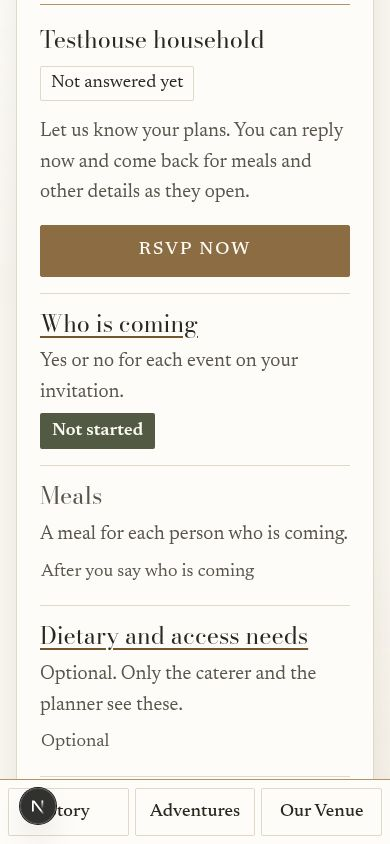
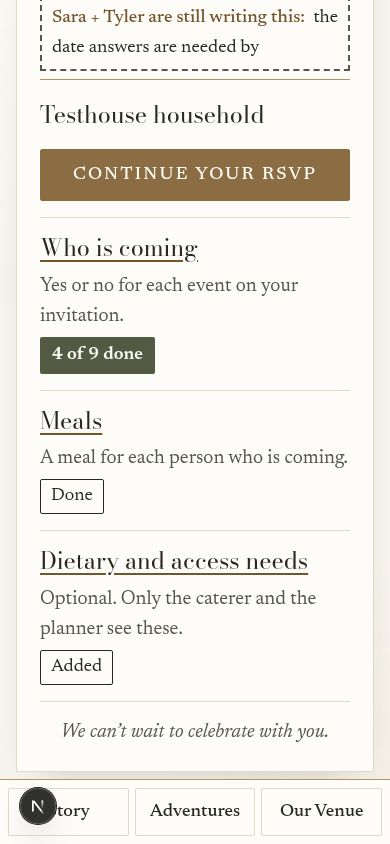
Make pending reply priority real and preserve browser device settings

diff --git a/tests/e2e/helpers/principal.ts b/tests/e2e/helpers/principal.ts
@@ -107,7 +107,15 @@ export async function contextAs(
 ): Promise<BrowserContext> {
   // `browser.newContext()` does not inherit the config's `use.baseURL`, so pass it: specs navigate
   // with relative paths and must land on the server Playwright actually started.
+  // A manually created context does not inherit the project's emulated device.
+  // Preserve it so a test named "mobile" actually exercises the mobile layout and inputs.
+  const device = test.info().project.use;
   return browser.newContext({
+    viewport: device.viewport,
+    userAgent: device.userAgent,
+    deviceScaleFactor: device.deviceScaleFactor,
+    isMobile: device.isMobile,
+    hasTouch: device.hasTouch,
     baseURL: BASE_URL,
     extraHTTPHeaders: principalHeaders(name, TEST_AUTH_SECRET, `browser-${process.pid}-${++contexts}`),
     ...(opts.viewport ? { viewport: opts.viewport } : {}),

diff --git a/tests/e2e/rsvp.spec.ts b/tests/e2e/rsvp.spec.ts
@@ -108,6 +108,13 @@ test('a household manager answers for the whole household, reviews inline, confi
   await page.goto('/your-weekend');
   await expect(page.getByRole('heading', { level: 1 })).toContainText('Ada');
   await expect(page.locator('#main')).toContainText('Continue your RSVP');
+  if (test.info().project.name === 'mobile') {
+    // A partial reply keeps the next action before the event list, in reading and visual order.
+    expect(await page.evaluate(() => !!(document.querySelector('#reply')!.compareDocumentPosition(document.querySelector('#itinerary')!) & Node.DOCUMENT_POSITION_FOLLOWING))).toBe(true);
+    const reply = (await page.locator('#reply').boundingBox())!;
+    const itinerary = (await page.locator('#itinerary').boundingBox())!;
+    expect(reply.y).toBeLessThan(itinerary.y);
+  }
   await axeClean(page);
   await ctx.close();
 });

diff --git a/src/themes/botanical-deco/weekend.tsx b/src/themes/botanical-deco/weekend.tsx
@@ -341,8 +341,9 @@ export function BotanicalWeekendPage({ data, reply }: { data: MyItinerary; reply
       <div className="bd-workspace">
         <Botanical id="botanical.edge-left" className="bd-bloom--ws-left" />
         <Botanical id="botanical.vine-right" className="bd-bloom--ws-right" />
+        {pending ? <Reply data={data} reply={reply} /> : null}
         <Itinerary data={data} />
-        <Reply data={data} reply={reply} />
+        {!pending ? <Reply data={data} reply={reply} /> : null}
         <Modules data={data} />
         <span className="bd-workspace__skyline" aria-hidden="true" />
       </div>

diff --git a/src/themes/botanical-deco/guest.css b/src/themes/botanical-deco/guest.css
@@ -752,6 +752,18 @@
     grid-template-columns: minmax(0, 1fr) minmax(0, 1fr);
   }
 
+  /* The next reply leads the single-column reading order; the desktop workspace keeps
+     the itinerary at left and reply at centre regardless of that semantic order. */
+  .bd-itin {
+    grid-column: 1;
+    grid-row: 1;
+  }
+
+  .bd-reply {
+    grid-column: 2;
+    grid-row: 1;
+  }
+
   .bd-modules {
     grid-column: 1 / -1;
   }

diff --git a/docs/demos/release-review-2026-10-29/README.md b/docs/demos/release-review-2026-10-29/README.md
@@ -2,7 +2,7 @@
 
 Fresh local browser captures at 390 × 844, using the final working tree described by this commit. Measurements in [observations.json](observations.json) record section order, first-screen dress-code/directions bounds, reply action position and overflow. Screenshots show the actual page, including local development chrome; no compositing or generated mockups.
 
-The baseline is the earlier PR capture at `b68ff15`: [wedding](../sara-feedback/after/wedding.jpg) and [weekend phone](../guest-journey-refinement/after/weekend-mobile.jpg). The wedding baseline is a desktop section capture; compare content order rather than pixel dimensions. The new phone images verify first-screen essentials in all three themes. The weekend fixture is unanswered/open with demo guests and does not imply actual wedding menu or RSVP availability.
+The baseline is the earlier PR capture at `b68ff15`: [wedding](../sara-feedback/after/wedding.jpg) and [weekend phone](../guest-journey-refinement/after/weekend-mobile.jpg). The wedding baseline is a desktop section capture; compare content order rather than pixel dimensions. The new phone images verify first-screen essentials in all three themes. The refreshed weekend fixture has a partial/open RSVP with demo guests and does not imply actual wedding menu or RSVP availability.
 
 | Wedding theme | Phone screenshot |
 |---|---|
@@ -13,3 +13,7 @@ The baseline is the earlier PR capture at `b68ff15`: [wedding](../sara-feedback/
 ![RSVP next action before the status list](weekend-reply-390.jpg)
 
 [Existing real guest-journey Webreel recordings](../guest-journey-refinement/README.md) show actual email-code sign-in, map/planning, persisted agenda changes, meal review/confirm, and sign-out gating.
+
+The final ordering check covers partial household A and unanswered household B at phone and desktop sizes. Reply precedes itinerary in reading order; on phones it also precedes it visually. Desktop keeps itinerary left and reply centre. The final phone context explicitly emulates iPhone 14; no production guest data is used.
+
+The captured `touch` media-query field was sampled after full-page screenshot capture. A separate pre-capture phone check confirmed `maxTouchPoints=1`, coarse pointer, DPR 3 and inner width 390; device options and viewport geometry, rather than that post-capture field alone, establish emulation.

diff --git a/docs/reviews/PR-sara-feedback-self-review.md b/docs/reviews/PR-sara-feedback-self-review.md
@@ -136,3 +136,10 @@ Fresh [phone screenshots and measurements](../demos/release-review-2026-10-29/RE
 Live verification limit: this environment’s direct browser connection to both production hostnames fails at the network proxy (CONNECT 403). Authenticated Vercel HTTP fetches do reach the deployment and confirm response status, deployment IDs and anonymous privacy markup. Fresh geometry/accessibility/interaction evidence comes from the isolated local fixture server; no production guest records were modified. The detector-overlay attempt was blocked by the application CSP, so no live overlay is claimed. Field Core Web Vitals and a production guest session are not claimed.
 
 Questions skipped: the user explicitly authorized fixing issues and monitoring the production deployment; no design preference is needed for these corrections.
+
+
+### Runtime follow-through
+
+The extra partial-RSVP browser check caught that the pre-existing `data-reply-pending` attribute had no styling or rendering effect. The actual fix now renders Reply before Itinerary for pending replies, and explicitly keeps the desktop grid’s itinerary at left/reply at centre. A browser regression checks both DOM and phone visual order after saving a partial reply. Fresh captures cover partial household A and unanswered household B at 390 and 1440: reply top 737px on phone, before itinerary top 1629/2030px; desktop columns share the same top with reply centred. The primary CTA precedes tasks in both states.
+
+The helper for manually created Playwright contexts also did not inherit project device options: a project named mobile could use the browser’s default desktop context. It now preserves viewport, user agent, touch, mobile and device scale settings before applying explicit test overrides. The complete RSVP suite passes 28/28 with these actual device settings; earlier project labels alone are not treated as phone interaction proof. Direct viewport audits and explicit device captures remain independent evidence.
